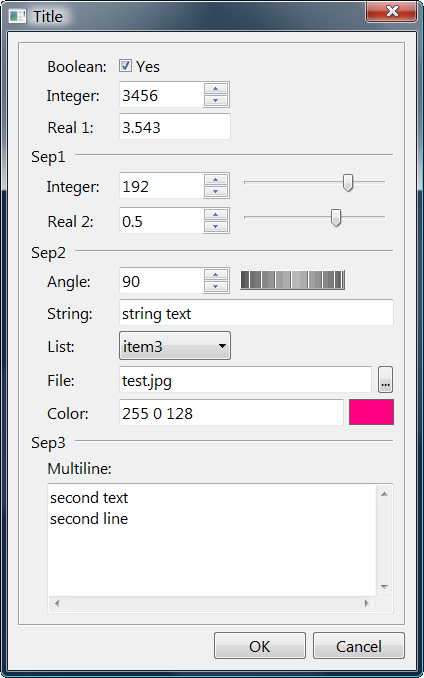
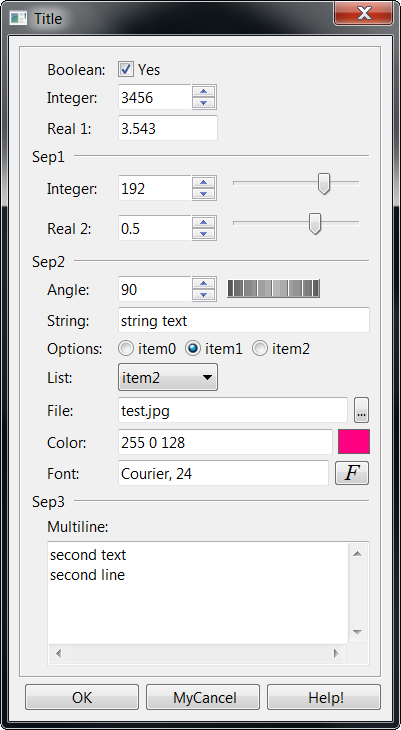
New: parameters for IupGetParam, "o" to display the list in an array of toggles inside a radio, and "n" to select a font, similar to the "c" parameter that selects a color.

diff --git a/iup/html/en/dlg/iupgetparam.html b/iup/html/en/dlg/iupgetparam.html
@@ -1,4 +1,4 @@
-<!DOCTYPE HTML PUBLIC "-//W3C//DTD HTML 4.0 Strict//EN">
+<!DOCTYPE HTML PUBLIC "-//W3C//DTD HTML 4.0 Strict//EN">
 <html>
 <head>
 <meta http-equiv="Content-Language" content="en-us">
@@ -132,6 +132,8 @@ called], use &quot;float&quot; in C)<br>
         C, it must have room enough for your string)<br>
 <strong>l</strong> = list 
         (shows a dropdown list box, use &quot;int&quot; in C for the zero based item index selected)<br>
+<strong>o</strong> = list 
+        (shows a list of toggles inside a radio, use &quot;int&quot; in C for the zero based item index selected)<br>
 <strong>t</strong> = separator 
         (shows a horizontal line separator label, in this case text can be an empty string, 
 not included in parameter count)<br>
@@ -139,6 +141,8 @@ not included in parameter count)<br>
 to open a file selection dialog box)<br>
 <strong>c</strong> = string (same as <strong>s</strong>, but also show a color button 
 to open a color selection dialog box)<strong><br>
+n</strong> = string (same as <strong>s</strong>, but also show a font button 
+to open a font selection dialog box)<strong><br>
 u</strong> = buttons names (allow to redefine the OK 
 and Cancel button names, and to add a Help button, use [ok,cancel,help] as extra data, can omit one of them, it 
 will use the default name, not included in parameter count) (since 3.1)</p>
@@ -177,7 +181,7 @@ empty values to use the default values. No mask can be set.</p>
 <p>There is no extra parameters for the color string. The mask is automatically 
 set to capture 3 or 4 unsigned integers from 0 to 255 (R G B) or (R G B A) 
 (alpha is optional).</p>
-<p>The number of lines in the format string (&quot;\n&quot;s) will determine the number of required parameters. But separators 
+<p>The number of lines in the format string (number of '\n') will determine the number of required parameters. But separators 
   will not count as parameters.</p>
 <p>A integer parameter always has a spin attached to the text to increment and 
 decrement the value. A real parameter only has a spin in a full interval is 
@@ -193,36 +197,40 @@ the dialog will be defined to a non NULL and non zero value.</p>
 <p>Here is an example showing many the possible parameters. We show only one for each type, but you can have as many 
   parameters of the same type you want.</p>
 <pre>
-  // initial values
-  int pboolean0 = 1;
-  int pinteger1 = 3456;
-  float preal2 = 3.543f;
-  int pinteger3 = 192;
-  float preal4 = 0.5f;
-  float pangle5 = 90;
-  char pstring6[100] = "string text";
-  int plist7 = 2;
-  char pfile_name8[500] = "test.jpg";
-  char pcolor9[100] = "255 0 128";
-  char pstring10[200] = "second text\nsecond line";
-   
+  int pboolean = 1;
+  int pinteger = 3456;
+  float preal = 3.543f;
+  int pinteger2 = 192;
+  float preal2 = 0.5f;
+  float pangle = 90;
+  char pstring[100] = "string text";
+  char pfont[100] = "Courier, 24";
+  char pcolor[100] = "255 0 128";
+  int plist = 2, poptions = 1;
+  char pstring2[200] = "second text\nsecond line";
+  char file_name[500] = "test.jpg";
+  
   if (!IupGetParam("Title", param_action, 0,
-                   "Boolean: %b[No,Yes]{Boolean Tip}\n"
-                   "Integer: %i{Integer Tip}\n"
-                   "Real 1: %r{Real Tip}\n"
+                   "Bt %u[, MyCancel, Help!]\n"
+                   "Boolean: %b[No,Yes]\n"
+                   "Integer: %i\n"
+                   "Real 1: %r\n"
                    "Sep1 %t\n"
-                   "Integer: %i[0,255]{Integer Tip 2}\n"
-                   "Real 2: %r[-1.5,1.5]{Real Tip 2}\n"
+                   "Integer: %i[0,255]\n"
+                   "Real 2: %r[-1.5,1.5,0.05]\n"
                    "Sep2 %t\n"
-                   "Angle: %a[0,360]{Angle Tip}\n"
-                   "String: %s{String Tip}\n"
-                   "List: %l|item1|item2|item3|{List Tip}\n" 
-                   "File: %f[OPEN|*.bmp;*.jpg|CURRENT|NO|NO]{File Tip}\n"
+                   "Angle: %a[0,360]\n"
+                   "String: %s\n"
+                   "Options: %o|item0|item1|item2|\n" 
+                   "List: %l|item0|item1|item2|item3|item4|item5|item6|\n" 
+                   "File: %f[OPEN|*.bmp;*.jpg|CURRENT|NO|NO]\n"
                    "Color: %c{Color Tip}\n"
+                   "Font: %n\n"
                    "Sep3 %t\n"
-                   "Multiline: %m{Multiline Tip}\n",
-                   &pboolean0, &pinteger1, &preal2, &pinteger3, &preal4, &pangle5, pstring6, &plist7, pfile_name8, pcolor9, pstring10, NULL))
-    return IUP_DEFAULT;
+                   "Multiline: %m\n",
+                   &pboolean, &pinteger, &preal, &pinteger2, &preal2, &pangle, pstring, 
+                   &poptions, &plist, file_name, pcolor, pfont, pstring2, NULL))
+    return;
 </pre>
 
 <p align="center">

diff --git a/iup/html/en/history3.html b/iup/html/en/history3.html
@@ -84,6 +84,9 @@ version 3.x.<br>
 	name string and the application does not need to 
 concatenate the attribute name with the id. The <strong>IupMat*Attribute</strong> 
 	functions also became faster than the traditional functions.</li>
+	<li><span class="hist_new">New:</span> parameters for <strong>IupGetParam</strong>, 
+	&quot;o&quot; to display the list in an array of toggles inside a radio, and &quot;n&quot; to 
+	select a font, similar to the &quot;c&quot; parameter that selects a color.</li>
 	<li><span class="hist_changed">Changed:</span>
     MARQUEE attribute support in <strong>IupProgressBar</strong><span class="style1"> </span>
 	on GTK and Motif now works just like on Windows.</li>

diff --git a/iup/src/iup_getparam.c b/iup/src/iup_getparam.c
@@ -252,6 +252,29 @@ static int iParamListAction_CB(Ihandle *self, char *t, int i, int v)
   return IUP_DEFAULT;
 }
 
+static int iParamOptionsAction_CB(Ihandle *self, int v)
+{
+  if (v == 1)
+  {
+    Ihandle* param = (Ihandle*)iupAttribGetInherit(self, "_IUPGP_PARAM");
+    Ihandle* dlg = IupGetDialog(self);
+    Iparamcb cb = (Iparamcb)IupGetCallback(dlg, "PARAM_CB");
+    int old_v = iupAttribGetInt(param, "VALUE");
+    int new_v = iupAttribGetInt(self, "OPT");
+
+    iupAttribSetInt(param, "VALUE", new_v);
+
+    if (cb && !cb(dlg, iupAttribGetInt(param, "INDEX"), (void*)iupAttribGet(dlg, "USER_DATA"))) 
+    {
+      /* there is no IUP_IGNORE for IupToggle, manually undo */
+      iupAttribSetInt(param, "VALUE", old_v);
+      IupSetAttribute(IupGetParent(IupGetParent(self)), "VALUE_HANDLE", (char*)IupGetChild(IupGetParent(self), old_v));
+    }
+  }
+
+  return IUP_DEFAULT;
+}
+
 static int iParamFileButton_CB(Ihandle *self)
 {
   Ihandle* param   = (Ihandle*)iupAttribGetInherit(self, "_IUPGP_PARAM");
@@ -316,6 +339,35 @@ static int iParamColorButton_CB(Ihandle *self, int button, int pressed)
 
     IupDestroy(color_dlg);
   }
+
+  return IUP_DEFAULT;
+}
+
+static int iParamFontButton_CB(Ihandle *self)
+{
+  Ihandle* param   = (Ihandle*)iupAttribGetInherit(self, "_IUPGP_PARAM");
+  Ihandle* textbox = (Ihandle*)iupAttribGetInherit(self, "_IUPGP_TEXT");
+  Ihandle* dlg = IupGetDialog(self);
+  Iparamcb cb = (Iparamcb)IupGetCallback(dlg, "PARAM_CB");
+
+  Ihandle* font_dlg = IupFontDlg();
+  IupSetAttributeHandle(font_dlg, "PARENTDIALOG", IupGetDialog(self));
+  IupSetAttribute(font_dlg, "TITLE", iupAttribGet(param, "TITLE"));
+  IupSetAttribute(font_dlg, "VALUE", iupAttribGet(param, "VALUE"));
+
+  IupPopup(font_dlg, IUP_CENTER, IUP_CENTER);
+
+  if (!cb || cb(dlg, iupAttribGetInt(param, "INDEX"), (void*)iupAttribGet(dlg, "USER_DATA"))) 
+  {
+    if (IupGetInt(font_dlg, "STATUS")==1)
+    {
+      char* value = IupGetAttribute(font_dlg, "VALUE");
+      IupSetAttribute(textbox, "VALUE", value);
+      iupAttribStoreStr(param, "VALUE", value);
+    }
+  }
+
+  IupDestroy(font_dlg);
 
   return IUP_DEFAULT;
 }
@@ -457,8 +509,8 @@ static Ihandle* iParamCreateBox(Ihandle* param)
   }
   else if (iupStrEqual(type, "LIST"))
   {
-    char str[20] = "1";
-    int i = 1;
+    char str[20] = "0";
+    int i = 0;
     ctrl = IupList(NULL);
     IupSetCallback(ctrl, "ACTION", (Icallback)iParamListAction_CB);
     IupSetAttribute(ctrl, "DROPDOWN", "YES");
@@ -466,13 +518,39 @@ static Ihandle* iParamCreateBox(Ihandle* param)
 
     while (*iupAttribGet(param, str) != 0)
     {
-      IupStoreAttribute(ctrl, str, iupAttribGet(param, str));
+      IupStoreAttributeId(ctrl, "", i+1, iupAttribGet(param, str));
       i++;
       sprintf(str, "%d", i);
     }
-    IupStoreAttribute(ctrl, str, NULL);
+    IupStoreAttributeId(ctrl, "", i+1, NULL);
 
     IupAppend(box, ctrl);
+  }
+  else if (iupStrEqual(type, "OPTIONS"))
+  {
+    Ihandle* tgl;
+    char str[20] = "0";
+    int i = 0;
+    ctrl = IupHbox(NULL);
+    IupSetAttribute(ctrl, "GAP", "5");
+
+    while (*iupAttribGet(param, str) != 0)
+    {
+      tgl = IupToggle(iupAttribGet(param, str), NULL);
+      IupStoreAttribute(tgl, "OPT", str);
+      IupSetCallback(tgl, "ACTION", (Icallback)iParamOptionsAction_CB);
+
+      IupAppend(ctrl, tgl);
+
+      i++;
+      sprintf(str, "%d", i);
+    }
+
+    IupAppend(box, IupRadio(ctrl));
+    tgl = IupGetChild(ctrl, iupAttribGetInt(param, "VALUE"));
+    /* RADIO initial value */
+    IupSetAttribute(IupGetParent(ctrl), "VALUE_HANDLE", (char*)tgl);
+    ctrl = tgl; /* allow TIP to go to the first toggle */
   }
   else if (iupStrEqual(type, "STRING"))
   {
@@ -548,11 +626,38 @@ static Ihandle* iParamCreateBox(Ihandle* param)
       iupAttribSetStr(param, "EXPAND", "1");
       
       aux = IupCanvas(NULL);
-      IupSetAttribute(aux, "SIZE", "20x10");
+      IupSetAttribute(aux, "SIZE", "16x10");
       IupSetAttribute(aux, "EXPAND", "NO");
       IupStoreAttribute(aux, "BGCOLOR", iupAttribGet(param, "VALUE"));
 
       IupSetCallback(aux, "BUTTON_CB", (Icallback)iParamColorButton_CB);
+      iupAttribSetStr(param, "AUXCONTROL", (char*)aux);
+      iupAttribSetStr(aux, "_IUPGP_PARAM", (char*)param);
+      iupAttribSetStr(aux, "_IUPGP_TEXT", (char*)ctrl);
+      IupSetAttribute(aux, "EXPAND", "NO");
+
+      IupAppend(box, aux); 
+  }
+  else if (iupStrEqual(type, "FONT"))
+  {
+      Ihandle* aux;
+
+      ctrl = IupText(NULL);
+      IupSetAttribute(ctrl, "SIZE", "100x");
+      IupSetAttribute(ctrl, "EXPAND", "HORIZONTAL");
+      IupAppend(box, ctrl);
+
+      IupSetCallback(ctrl, "ACTION", (Icallback)iParamTextAction_CB);
+      IupStoreAttribute(ctrl, "VALUE", iupAttribGet(param, "VALUE"));
+
+      iupAttribSetStr(param, "EXPAND", "1");
+      
+      aux = IupButton("F", NULL);
+      IupSetAttribute(aux, "SIZE", "16x8");
+      IupSetAttribute(aux, "EXPAND", "NO");
+      IupStoreAttribute(aux, "FONT", "Times, Italic 14");
+
+      IupSetCallback(aux, "ACTION", (Icallback)iParamFontButton_CB);
       iupAttribSetStr(param, "AUXCONTROL", (char*)aux);
       iupAttribSetStr(aux, "_IUPGP_PARAM", (char*)param);
       iupAttribSetStr(aux, "_IUPGP_TEXT", (char*)ctrl);
@@ -973,7 +1078,7 @@ static void iParamSetButtonNames(char* extra, Ihandle* param)
 
 static void iParamSetListItems(char* extra, Ihandle* param)
 {
-  int d = 1, count;
+  int i = 0, count;
   char str[20], *item;
 
   if (!extra)
@@ -982,14 +1087,14 @@ static void iParamSetListItems(char* extra, Ihandle* param)
   item = iParamGetNextStrItem(extra, '|', &count);  extra += count;
   while (*item)
   {
-    sprintf(str, "%d", d);
+    sprintf(str, "%i", i);
     iupAttribStoreStr(param, str, item);
 
     item = iParamGetNextStrItem(extra, '|', &count);  extra += count;
-    d++;
+    i++;
   }
 
-  sprintf(str, "%d", d);
+  sprintf(str, "%i", i);
   iupAttribSetStr(param, str, "");
 }
 
@@ -1083,6 +1188,12 @@ static Ihandle *IupParamf(const char* format, int *line_size)
     extra = iParamGetStrExtra(line_ptr, '|', '|', &count);  line_ptr += count;
     iParamSetListItems(extra, param);
     break;
+  case 'o':
+    iupAttribSetStr(param, "TYPE", "OPTIONS");
+    iupAttribSetInt(param, "DATA_TYPE", IPARAM_TYPE_INT);
+    extra = iParamGetStrExtra(line_ptr, '|', '|', &count);  line_ptr += count;
+    iParamSetListItems(extra, param);
+    break;
   case 'a':
     iupAttribSetStr(param, "TYPE", "REAL");
     iupAttribSetInt(param, "DATA_TYPE", IPARAM_TYPE_FLOAT);
@@ -1119,6 +1230,10 @@ static Ihandle *IupParamf(const char* format, int *line_size)
     iupAttribSetInt(param, "DATA_TYPE", IPARAM_TYPE_STR);
     extra = iParamGetStrExtra(line_ptr, '[', ']', &count);  line_ptr += count;
     iParamSetFileOptions(extra, param);
+    break;
+  case 'n':
+    iupAttribSetStr(param, "TYPE", "FONT");
+    iupAttribSetInt(param, "DATA_TYPE", IPARAM_TYPE_STR);
     break;
   case 'c':
     iupAttribSetStr(param, "TYPE", "COLOR");

diff --git a/iup/test/getparam.c b/iup/test/getparam.c
@@ -47,8 +47,9 @@ void GetParamTest(void)
   float preal2 = 0.5f;
   float pangle = 90;
   char pstring[100] = "string text";
+  char pfont[100] = "Courier, 24";
   char pcolor[100] = "255 0 128";
-  int plist = 2;
+  int plist = 2, poptions = 1;
   char pstring2[200] = "second text\nsecond line";
   char file_name[500] = "test.jpg";
   
@@ -63,12 +64,14 @@ void GetParamTest(void)
                    "Sep2 %t\n"
                    "Angle: %a[0,360]\n"
                    "String: %s\n"
-                   "List: %l|item1|item2|item3|\n" 
+                   "Options: %o|item0|item1|item2|\n" 
+                   "List: %l|item0|item1|item2|item3|item4|item5|item6|\n" 
                    "File: %f[OPEN|*.bmp;*.jpg|CURRENT|NO|NO]\n"
                    "Color: %c{Color Tip}\n"
+                   "Font: %n\n"
                    "Sep3 %t\n"
                    "Multiline: %m\n",
-                   &pboolean, &pinteger, &preal, &pinteger2, &preal2, &pangle, pstring, &plist, file_name, pcolor, pstring2, NULL))
+                   &pboolean, &pinteger, &preal, &pinteger2, &preal2, &pangle, pstring, &poptions, &plist, file_name, pcolor, pfont, pstring2, NULL))
     return;
   
   IupMessagef("IupGetParam",
@@ -79,11 +82,13 @@ void GetParamTest(void)
               "Real 2: %g\n"
               "Angle: %g\n"
               "String: %s\n"
+              "Options Index: %d\n" 
               "List Index: %d\n" 
               "FileName: %s\n"
               "Color: %s\n"
+              "Font: %s\n"
               "Multiline: %s",
-              pboolean, pinteger, (double)preal, pinteger2, (double)preal2, (double)pangle, pstring, plist, file_name, pcolor, pstring2);
+              pboolean, pinteger, (double)preal, pinteger2, (double)preal2, (double)pangle, pstring, poptions, plist, file_name, pcolor, pfont, pstring2);
 }
 
 #ifndef BIG_TEST
